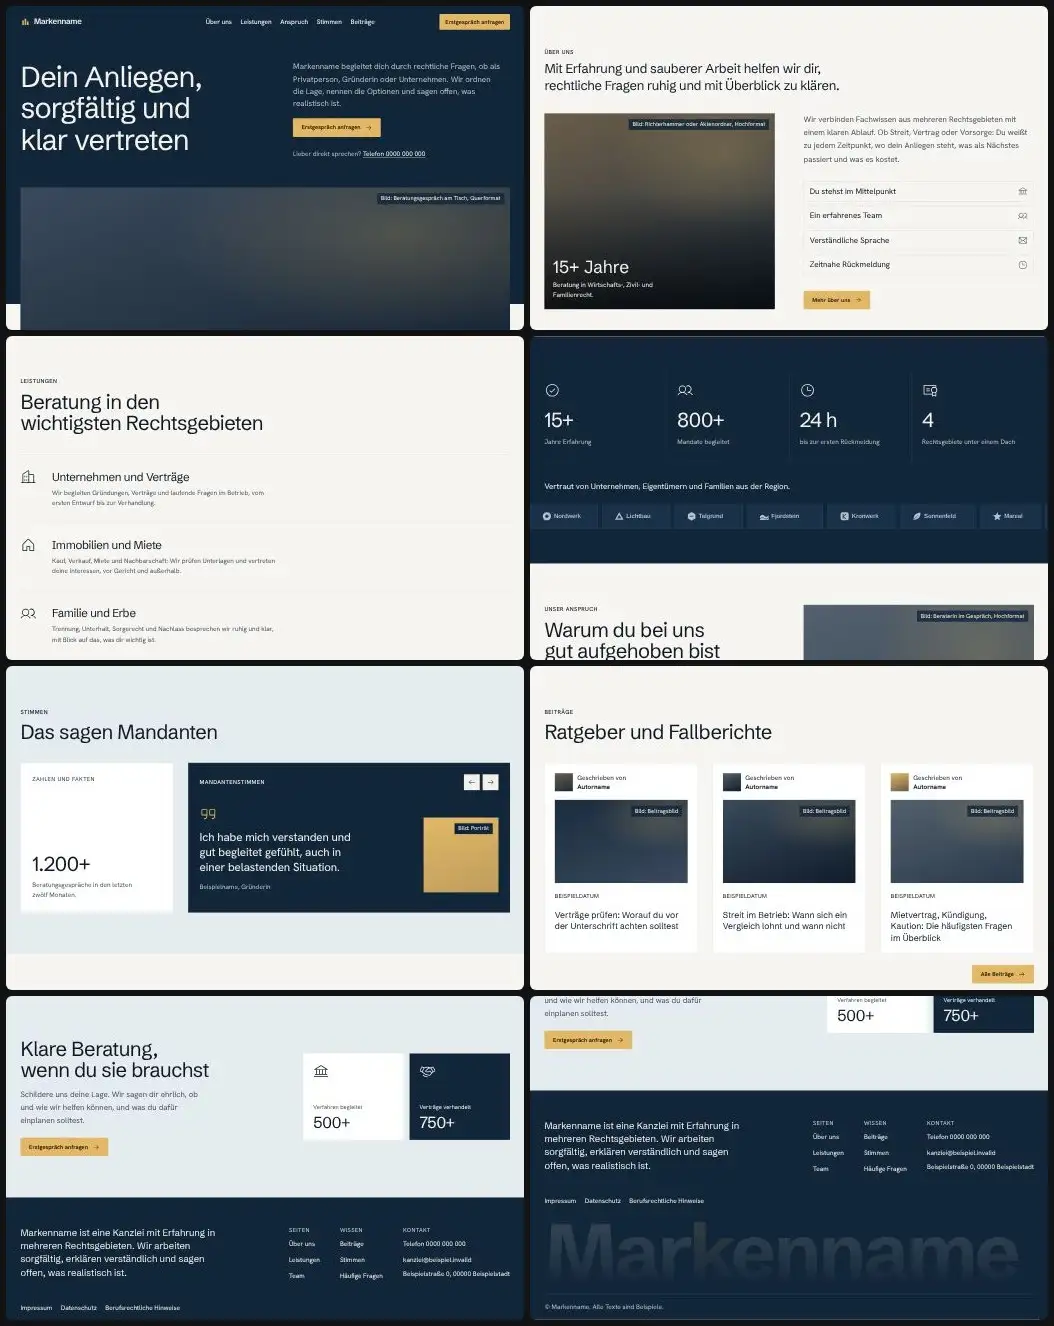
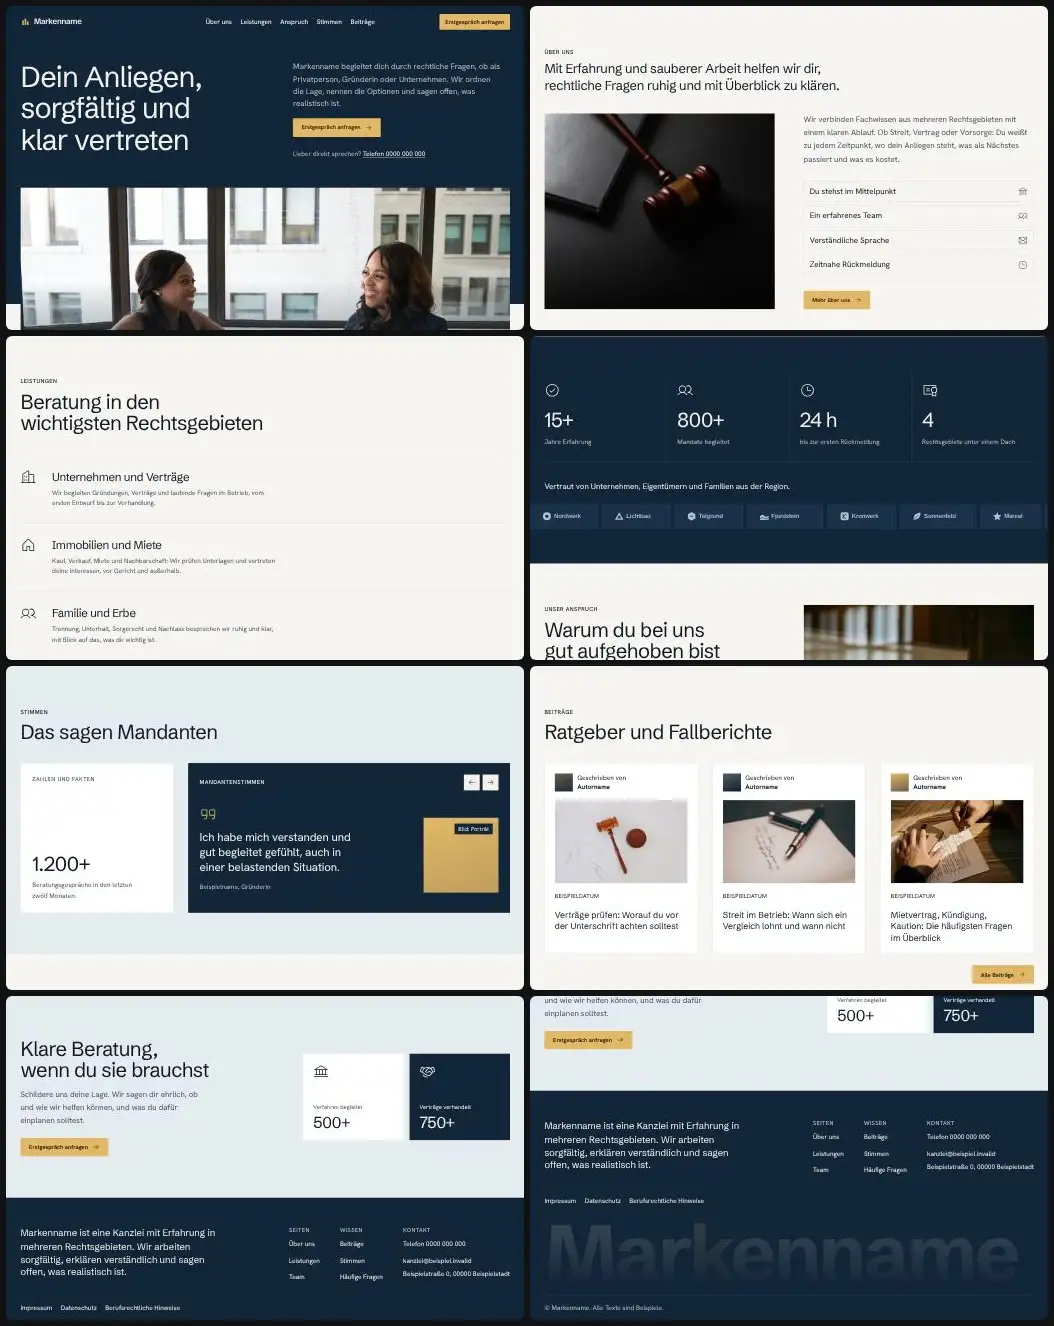
Bibliothek t67: Beispielfotos (Unsplash) eingebaut, Vorschaubilder neu erzeugt
Claude-Session: https://claude.ai/code/session_01DoGuL1bwF3ewggMgZ4Cpvd

diff --git a/skills/webdesign-conversion/assets/vorlagen/bibliothek/t67/index.html b/skills/webdesign-conversion/assets/vorlagen/bibliothek/t67/index.html
@@ -74,7 +74,7 @@
     </div>
     <div class="held__zone">
       <div class="wrap">
-        <figure class="bild held__bild bild--a" data-platzhalter="Bild: Beratungsgespräch am Tisch, Querformat" role="img" aria-label="Platzhalter für ein Foto eines Beratungsgesprächs">
+        <figure class="bild held__bild bild--a"><img src="bilder/kanzlei-gespraech-stifte.webp" width="1600" height="1068" alt="Zwei Frauen im Gespräch am Tisch mit Stiften in der Hand" loading="lazy" decoding="async">
           <span class="held__marke" aria-hidden="true" data-zeig>Mar<b>k</b>enname</span>
         </figure>
       </div>
@@ -89,7 +89,7 @@
         <h2 id="h-ueber" class="leitsatz">Mit Erfahrung und sauberer Arbeit helfen wir dir, rechtliche Fragen ruhig und mit Überblick zu klären.</h2>
       </header>
       <div class="ueber__raster">
-        <figure class="bild ueber__bild bild--b" data-platzhalter="Bild: Richterhammer oder Aktenordner, Hochformat" role="img" aria-label="Platzhalter für ein Foto" data-zeig>
+        <figure class="bild ueber__bild bild--b" data-zeig><img src="bilder/kanzlei-hammer-dunkel.webp" width="900" height="600" alt="Holzhammer neben einem Buch auf dunkler Fläche" loading="lazy" decoding="async">
           <figcaption class="ueber__beschriftung" data-beispiel>
             <span class="ueber__zahl">15+ Jahre</span>
             <span>Beratung in Wirtschafts-, Zivil- und Familienrecht.</span>
@@ -125,7 +125,7 @@
               <p>Wir begleiten Gründungen, Verträge und laufende Fragen im Betrieb, vom ersten Entwurf bis zur Verhandlung.</p>
             </div>
           </div>
-          <div class="bild leistung__bild bild--c" data-platzhalter="Bild: Vertrag wird unterzeichnet" role="img" aria-label="Platzhalter für ein Foto einer Vertragsunterzeichnung"></div>
+          <div class="bild leistung__bild bild--c"><img src="bilder/kanzlei-unterschrift-holztisch.webp" width="1000" height="667" alt="Eine Hand unterschreibt ein Dokument auf einem Holztisch" loading="lazy" decoding="async"></div>
         </li>
         <li class="leistung" data-zeig>
           <div class="leistung__inhalt">
@@ -135,7 +135,7 @@
               <p>Kauf, Verkauf, Miete und Nachbarschaft: Wir prüfen Unterlagen und vertreten deine Interessen, vor Gericht und außerhalb.</p>
             </div>
           </div>
-          <div class="bild leistung__bild bild--d" data-platzhalter="Bild: Wohnhaus von außen" role="img" aria-label="Platzhalter für ein Foto eines Wohnhauses"></div>
+          <div class="bild leistung__bild bild--d"><img src="bilder/kanzlei-wohnhaus-hecke.webp" width="1000" height="680" alt="Einfamilienhaus mit Satteldach und Hecke" loading="lazy" decoding="async"></div>
         </li>
         <li class="leistung" data-zeig>
           <div class="leistung__inhalt">
@@ -145,7 +145,7 @@
               <p>Trennung, Unterhalt, Sorgerecht und Nachlass besprechen wir ruhig und klar, mit Blick auf das, was dir wichtig ist.</p>
             </div>
           </div>
-          <div class="bild leistung__bild bild--a" data-platzhalter="Bild: Gespräch zu zweit im Büro" role="img" aria-label="Platzhalter für ein Foto eines Gesprächs"></div>
+          <div class="bild leistung__bild bild--a"><img src="bilder/kanzlei-frau-tisch-laptop.webp" width="1000" height="668" alt="Eine Frau sitzt mit Laptop und Papieren an einem Tisch" loading="lazy" decoding="async"></div>
         </li>
         <li class="leistung" data-zeig>
           <div class="leistung__inhalt">
@@ -155,7 +155,7 @@
               <p>Wenn ein Verfahren droht oder läuft, ordnen wir die Lage, sichern deine Rechte und planen die nächsten Schritte.</p>
             </div>
           </div>
-          <div class="bild leistung__bild bild--b" data-platzhalter="Bild: Unterlagen im Gespräch" role="img" aria-label="Platzhalter für ein Foto von Unterlagen im Gespräch"></div>
+          <div class="bild leistung__bild bild--b"><img src="bilder/kanzlei-unterlagen-tisch.webp" width="1000" height="667" alt="Zwei Personen mit Unterlagen an einem grauen Tisch" loading="lazy" decoding="async"></div>
         </li>
       </ul>
       <p class="rechts" data-zeig><a class="knopf" href="#kontakt">Alle Rechtsgebiete<svg width="20" height="20" aria-hidden="true" focusable="false"><use href="#i-arrow-right"/></svg></a></p>
@@ -202,7 +202,7 @@
           <div class="anspruch__zeile" data-zeig><h3>Ehrliche Einschätzung</h3><p>Wir nennen Chancen und Risiken offen und versprechen kein Ergebnis, das niemand zusagen kann.</p></div>
         </div>
       </div>
-      <figure class="bild anspruch__bild bild--c" data-platzhalter="Bild: Beraterin im Gespräch, Hochformat" role="img" aria-label="Platzhalter für ein Foto einer Beraterin im Gespräch" data-zeig></figure>
+      <figure class="bild anspruch__bild bild--c" data-zeig><img src="bilder/kanzlei-beratung-gespraech.webp" width="900" height="1350" alt="Zwei Personen im Beratungsgespräch an einem Tisch" loading="lazy" decoding="async"></figure>
     </div>
   </section>
 
@@ -271,7 +271,7 @@
         <li data-zeig>
           <a class="beitrag" href="#kontakt">
             <span class="beitrag__autor"><span class="avatar-quadrat avatar--1" aria-hidden="true"></span><span>Geschrieben von<br><b>Autorname</b></span></span>
-            <span class="bild beitrag__bild bild--d" data-platzhalter="Bild: Beitragsbild" role="img" aria-label="Platzhalter für ein Beitragsbild"></span>
+            <span class="bild beitrag__bild bild--d"><img src="bilder/kanzlei-hammer-marmor.webp" width="800" height="533" alt="Holzhammer und Block auf hellem Marmor" loading="lazy" decoding="async"></span>
             <span class="beitrag__datum">Beispieldatum</span>
             <span class="beitrag__titel">Verträge prüfen: Worauf du vor der Unterschrift achten solltest</span>
           </a>
@@ -279,7 +279,7 @@
         <li data-zeig>
           <a class="beitrag" href="#kontakt">
             <span class="beitrag__autor"><span class="avatar-quadrat avatar--2" aria-hidden="true"></span><span>Geschrieben von<br><b>Autorname</b></span></span>
-            <span class="bild beitrag__bild bild--a" data-platzhalter="Bild: Beitragsbild" role="img" aria-label="Platzhalter für ein Beitragsbild"></span>
+            <span class="bild beitrag__bild bild--a"><img src="bilder/kanzlei-fueller-papier.webp" width="800" height="533" alt="Füllfederhalter und Kappe auf einem Blatt Papier" loading="lazy" decoding="async"></span>
             <span class="beitrag__datum">Beispieldatum</span>
             <span class="beitrag__titel">Streit im Betrieb: Wann sich ein Vergleich lohnt und wann nicht</span>
           </a>
@@ -287,7 +287,7 @@
         <li data-zeig>
           <a class="beitrag" href="#kontakt">
             <span class="beitrag__autor"><span class="avatar-quadrat avatar--3" aria-hidden="true"></span><span>Geschrieben von<br><b>Autorname</b></span></span>
-            <span class="bild beitrag__bild bild--c" data-platzhalter="Bild: Beitragsbild" role="img" aria-label="Platzhalter für ein Beitragsbild"></span>
+            <span class="bild beitrag__bild bild--c"><img src="bilder/kanzlei-vertrag-schreiben.webp" width="800" height="640" alt="Hände mit Stift auf einem Vertrag" loading="lazy" decoding="async"></span>
             <span class="beitrag__datum">Beispieldatum</span>
             <span class="beitrag__titel">Mietvertrag, Kündigung, Kaution: Die häufigsten Fragen im Überblick</span>
           </a>

diff --git a/skills/webdesign-conversion/assets/vorlagen/bibliothek/t67/stil.css b/skills/webdesign-conversion/assets/vorlagen/bibliothek/t67/stil.css
@@ -242,3 +242,5 @@ h3{font-size:var(--h3);line-height:1.2}
   .leistung__bild,.leistung__inhalt{transition:none}
 }
 .wechsler__steuerung[hidden]{display:none}
+.held__bild::after{content:"";position:absolute;inset:auto 0 0 0;height:60%;z-index:1;pointer-events:none;background:linear-gradient(0deg,color-mix(in srgb,var(--flaeche-dunkel) 78%,transparent),transparent)}
+.held__marke{z-index:2}

diff --git a/skills/webdesign-conversion/assets/vorlagen/bibliothek/t67/BILDER.md b/skills/webdesign-conversion/assets/vorlagen/bibliothek/t67/BILDER.md
@@ -1,0 +1,28 @@
+# Bilder t67
+
+Alle Fotos von Unsplash, abgerufen am 25.11.2026. Titel und Lizenz stehen so auf der Seite des Fotos (Titel von Unsplash automatisch vergeben), als Fotograf ist das Unsplash Profil angegeben, weil die Seite den Namen nur als Profillink zeigte. Lizenz ist jeweils die Unsplash Lizenz.
+
+| Datei | Platz | Foto Titel | Fotograf (Profil) | Seite | Lizenz | Abruf |
+|---|---|---|---|---|---|---|
+| kanzlei-gespraech-stifte.webp.webp | Held | two women taking to each other while holding pens | @wocintechchat | https://unsplash.com/photos/4PU-OC8sW98 | Unsplash Lizenz | 25.11.2026 |
+| kanzlei-hammer-dunkel.webp.webp | Über uns | Holzhammer, der auf einer dunklen Oberfläche neben dem Buch ruht | @sasun1990 | https://unsplash.com/photos/FaTLrG5-ViE | Unsplash Lizenz | 25.11.2026 |
+| kanzlei-unterschrift-holztisch.webp.webp | Leistung Vertrag | eine Person, die mit einem Stift auf ein Blatt Papier schreibt | @colynarymedia | https://unsplash.com/photos/ZKkuYgbTRl8 | Unsplash Lizenz | 25.11.2026 |
+| kanzlei-wohnhaus-hecke.webp.webp | Leistung Wohnhaus | ein Haus mit einer großen Hecke davor | @chrisvomradio | https://unsplash.com/photos/Bu9hDBQ0ntE | Unsplash Lizenz | 25.11.2026 |
+| kanzlei-frau-tisch-laptop.webp.webp | Leistung Gespräch | Eine Frau sitzt an einem Tisch mit Laptop und Papieren | @theunmistakables | https://unsplash.com/photos/GroTDwJCVYw | Unsplash Lizenz | 25.11.2026 |
+| kanzlei-unterlagen-tisch.webp.webp | Leistung Unterlagen | woman signing on white printer paper beside woman about to touch the documents | @gabriellefaithhenderson | https://unsplash.com/photos/HJckKnwCXxQ | Unsplash Lizenz | 25.11.2026 |
+| kanzlei-beratung-gespraech.webp.webp | Anspruch | person sitting in a chair in front of a man | @charlesdeluvio | https://unsplash.com/photos/rRWiVQzLm7k | Unsplash Lizenz | 25.11.2026 |
+| kanzlei-hammer-marmor.webp.webp | Beitrag 1 | Holzhammer und Block auf Marmor | @tingeyinjurylawfirm | https://unsplash.com/photos/6sl88x150Xs | Unsplash Lizenz | 25.11.2026 |
+| kanzlei-fueller-papier.webp.webp | Beitrag 2 | schwarzer und silberner Füllfederhalter | @alvaroserrano | https://unsplash.com/photos/hjwKMkehBco | Unsplash Lizenz | 25.11.2026 |
+| kanzlei-vertrag-schreiben.webp.webp | Beitrag 3 | Person, die auf Whitepaper schreibt | @signaturepro | https://unsplash.com/photos/wB9iWZKwljw | Unsplash Lizenz | 25.11.2026 |
+
+## Hinweise
+
+* Stockpersonen nur als Atmosphäre, keine echten Berater oder Mandanten. Vor Abgabe durch eigene Fotos ersetzen.
+* Keine Erfolgsversprechen im Bildtext.
+* Held: Über das Bild läuft die große Wortmarke. Damit sie lesbar bleibt, liegt ein dunkler Verlauf unten im Bild (stil.css, letzte Zeilen).
+* Das Wohnhaus ist ein norddeutsch wirkendes Einfamilienhaus, kein Kennzeichen oder Auto im Bild.
+* Unsplash Titel sind teils englisch oder passen nicht, der Alt Text beschreibt, was zu sehen ist.
+
+## Offen
+
+* 3 Porträts (Folie, Zeilen 239, 247, 255)
